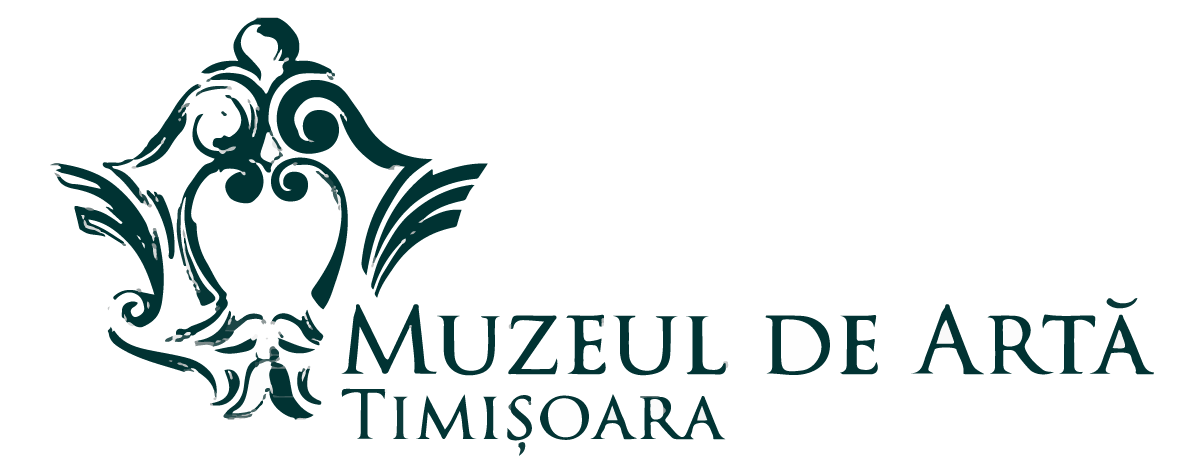
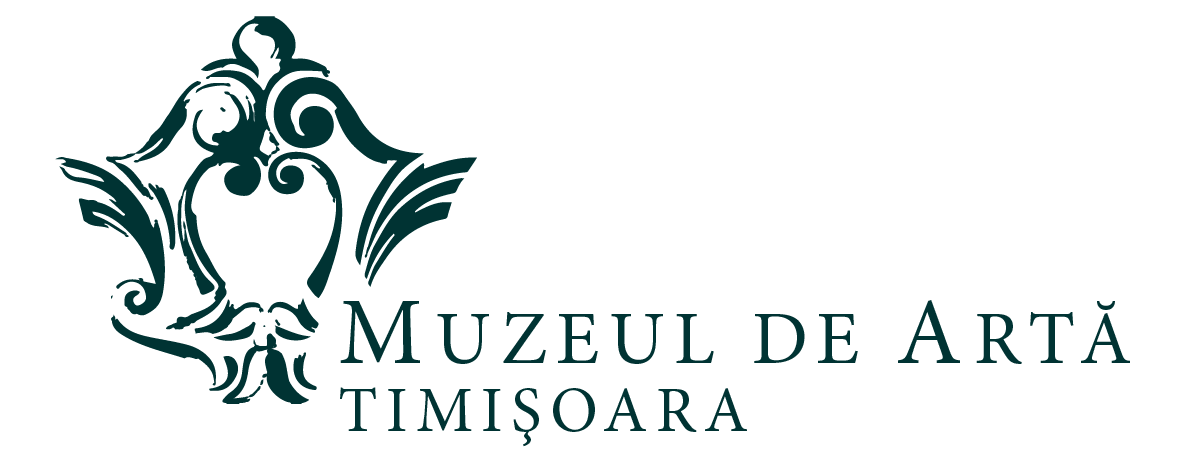
Updated look

Changed region(s): [[0.0309, 0.0297, 0.9582, 0.9512]]

diff --git a/app/style/main.css b/app/style/main.css
@@ -38,7 +38,7 @@ a:hover.thumbnail  {
     max-width: 50%;
     margin-left: auto;
     margin-right: auto;
-    margin-top: -140px;
+    margin-top: -203px;
     z-index: 100;
 }
 
@@ -64,11 +64,17 @@ a:hover.thumbnail  {
     /*position: absolute;*/
     /*top: 20%;*/
 }
+.logo1 {
+    width: 29%;
+    position: absolute;
+    top: 15%;
+    left: 3%;
+}
 
 .black-band {
     width: 100%;
-    height: 50px;
-    background-color: black;
+    height: 62px;
+    background-color: #444;
     margin-top: -20px;
 }
 
@@ -81,7 +87,7 @@ a:hover.thumbnail  {
 
 .navbar {
     position: absolute;
-    right: 10%;
+    right: 2%;
     top: 40%;
 }
 
@@ -90,7 +96,7 @@ a:hover.thumbnail  {
     list-style: none;
     display: inline;
     font-size: 20px;
-    margin: 20px;
+    margin: 15px;
     font-family: 'Oxygen', sans-serif;
     z-indez: 1;
 }
@@ -138,18 +144,19 @@ a:hover.thumbnail  {
 }
 
 .searchbox {
-    margin-top: -20px;
+    margin-top: -23px;
     width: 100%;
     margin-bottom: 20px;
 }
 
 .searchbox input {
-    width: 39%;
+    width: 38.5%;
     background-color: #1a1a1a;
-    height: 45px;
+    height: 40px;
     color: #fcd27d;
     font-size: 20px;
     text-align: center;
+    border: none;
 }
 
 

diff --git a/app/src/common/directives/navbar/navbar.html b/app/src/common/directives/navbar/navbar.html
@@ -1,4 +1,6 @@
 <div class="header1">
+    <a href="#/"><img src="style/images/Design-07.png" alt="MArT" class="logo1"/></a>
+
     <img src="style/images/Design-02.jpg" alt="MArT" class="img-responsive"/>
     <ul class="navbar">
         <li><a href="#/about" ng-class="{active: atPage('/about')}">DESPRE</a></li>
